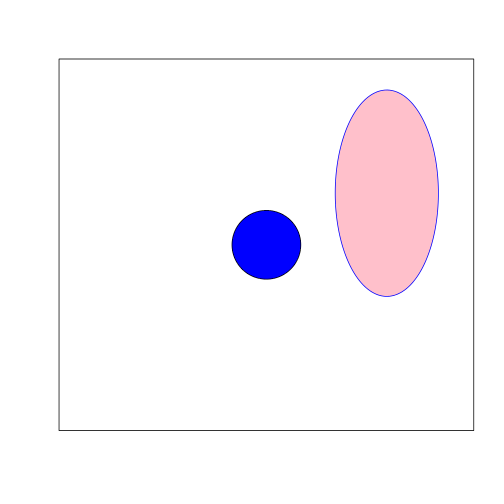
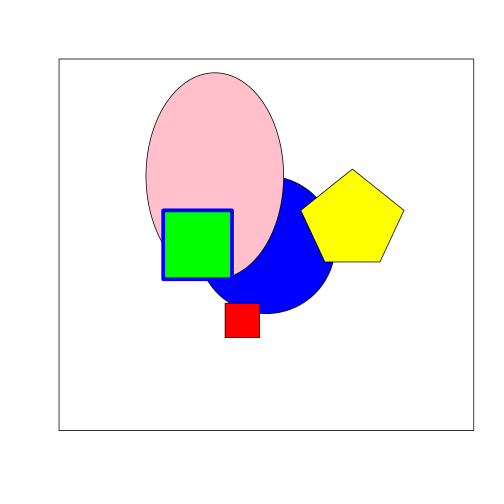
more stuff

Changed region(s): [[0.2679, 0.119, 0.8929, 0.6845]]

diff --git a/Day-02/polygonActivity.html b/Day-02/polygonActivity.html
@@ -194,11 +194,15 @@ circle &lt;- function(x, y, r, ry = r, ...) {
 </code></pre>
 
 <pre><code class="r">canvas()
-circle(50, 50, 10, col = &quot;blue&quot;, border = NULL)
-circle(85, 65, 15, 30, col = &quot;pink&quot;, border = &quot;blue&quot;)
+circle(50, 50, 20, col = &quot;blue&quot;, border = NULL)
+circle(35, 70, r = 20, ry = 30, col = &quot;pink&quot;, border = NULL)
+polygon(c(20, 40, 40, 20), c(40, 40, 60, 60), col = &quot;green&quot;, border = &quot;blue&quot;, 
+    lwd = 5)
+polygon(c(38, 48, 48, 38), c(33, 33, 23, 23), col = &quot;red&quot;, border = &quot;black&quot;)
+polygon(c(67, 60, 75, 90, 83), c(45, 60, 72, 60, 45), col = &quot;yellow&quot;, border = NULL)
 </code></pre>
 
[2 lines of base64/hex data omitted]
 
 </body>
 

diff --git a/Day-04/Functions-and-Graphics.html b/Day-04/Functions-and-Graphics.html
@@ -180,6 +180,8 @@ hljs.initHighlightingOnLoad();
 <body>
 <h1>Functions and Graphics</h1>
 
+<h2>Sum of Numbers</h2>
+
 <pre><code class="r">countOdds &lt;- function(x) {
     sum(x%%2)
 }
@@ -205,8 +207,11 @@ countEven(1:9)
 hypotenuseLength &lt;- function(x, y) {
     sqrt(x^2 + y^2)
 }
+</code></pre>
 
-hypotenuseLength(3, 4)
+<h2>Triangles</h2>
+
+<pre><code class="r">hypotenuseLength(3, 4)
 </code></pre>
 
 <pre><code>## [1] 5
@@ -243,6 +248,8 @@ thetaFromLengthsTest(13, 84, 0)
 
 <pre><code>## [1] 0
 </code></pre>
+
+<h2>Graphics</h2>
 
 </body>
 

diff --git a/Day-14/HuckFinn/ToolTips.html b/Day-14/HuckFinn/ToolTips.html
@@ -203,6 +203,10 @@ hljs.initHighlightingOnLoad();
 
 <p><span class='hiword' title='hi there!'>Hello</span> to all of you in <span class='hiword' title='TV viewers'>Television Land.</span></p>
 
+<style>
+.hiword {background:orange;}
+</style>
+
 <p>Character Vectors</p>
 
 <pre><code class="r">words &lt;- c(&quot;How&quot;, &quot;now&quot;, &quot;brown&quot;, &quot;cow&quot;, &quot;1&quot;)

diff --git a/Day-02/polygonActivity.md b/Day-02/polygonActivity.md
@@ -19,8 +19,12 @@ circle <- function(x, y, r, ry = r, ...) {
 
 ```r
 canvas()
-circle(50, 50, 10, col = "blue", border = NULL)
-circle(85, 65, 15, 30, col = "pink", border = "blue")
+circle(50, 50, 20, col = "blue", border = NULL)
+circle(35, 70, r = 20, ry = 30, col = "pink", border = NULL)
+polygon(c(20, 40, 40, 20), c(40, 40, 60, 60), col = "green", border = "blue", 
+    lwd = 5)
+polygon(c(38, 48, 48, 38), c(33, 33, 23, 23), col = "red", border = "black")
+polygon(c(67, 60, 75, 90, 83), c(45, 60, 72, 60, 45), col = "yellow", border = NULL)
 ```
 
 ![plot of chunk unnamed-chunk-2](figure/unnamed-chunk-2.png) 

diff --git a/Day-14/HuckFinn/ToolTips.md b/Day-14/HuckFinn/ToolTips.md
@@ -19,6 +19,8 @@ formatWord("Hello", "hi there!", "hiword")
 ## [1] "<span class='hiword' title='hi there!'>Hello</span>"
 ```
 
+
+
 TelevisionLand
 
 ```r
@@ -27,6 +29,11 @@ cat(formatWord("Hello", "hi there!", "hiword"), "to", "all", "of", "you", "in",
 ```
 
 <span class='hiword' title='hi there!'>Hello</span> to all of you in <span class='hiword' title='TV viewers'>Television Land.</span>
+
+
+<style>
+.hiword {background:orange;}
+</style>
 
 Character Vectors
 

diff --git a/Day-04/Functions-and-Graphics.md b/Day-04/Functions-and-Graphics.md
@@ -1,5 +1,6 @@
 Functions and Graphics
 =========================
+## Sum of Numbers
 
 ```r
 countOdds <- function(x) {
@@ -31,7 +32,11 @@ countEven(1:9)
 hypotenuseLength <- function(x, y) {
     sqrt(x^2 + y^2)
 }
+```
 
+## Triangles
+
+```r
 hypotenuseLength(3, 4)
 ```
 
@@ -76,4 +81,6 @@ thetaFromLengthsTest(13, 84, 0)
 ```
 ## [1] 0
 ```
+
+## Graphics
 
